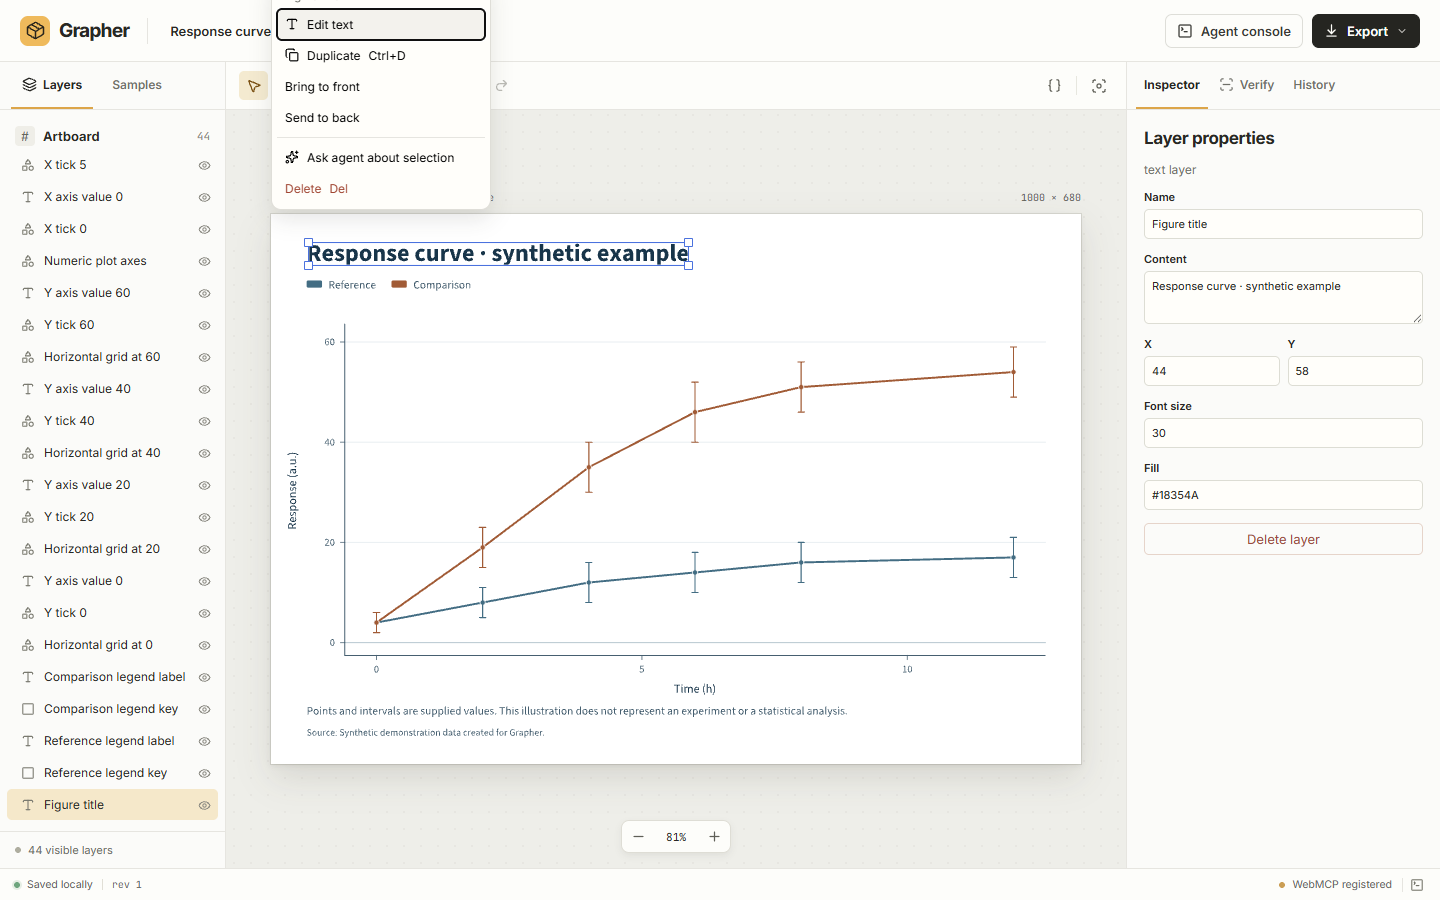
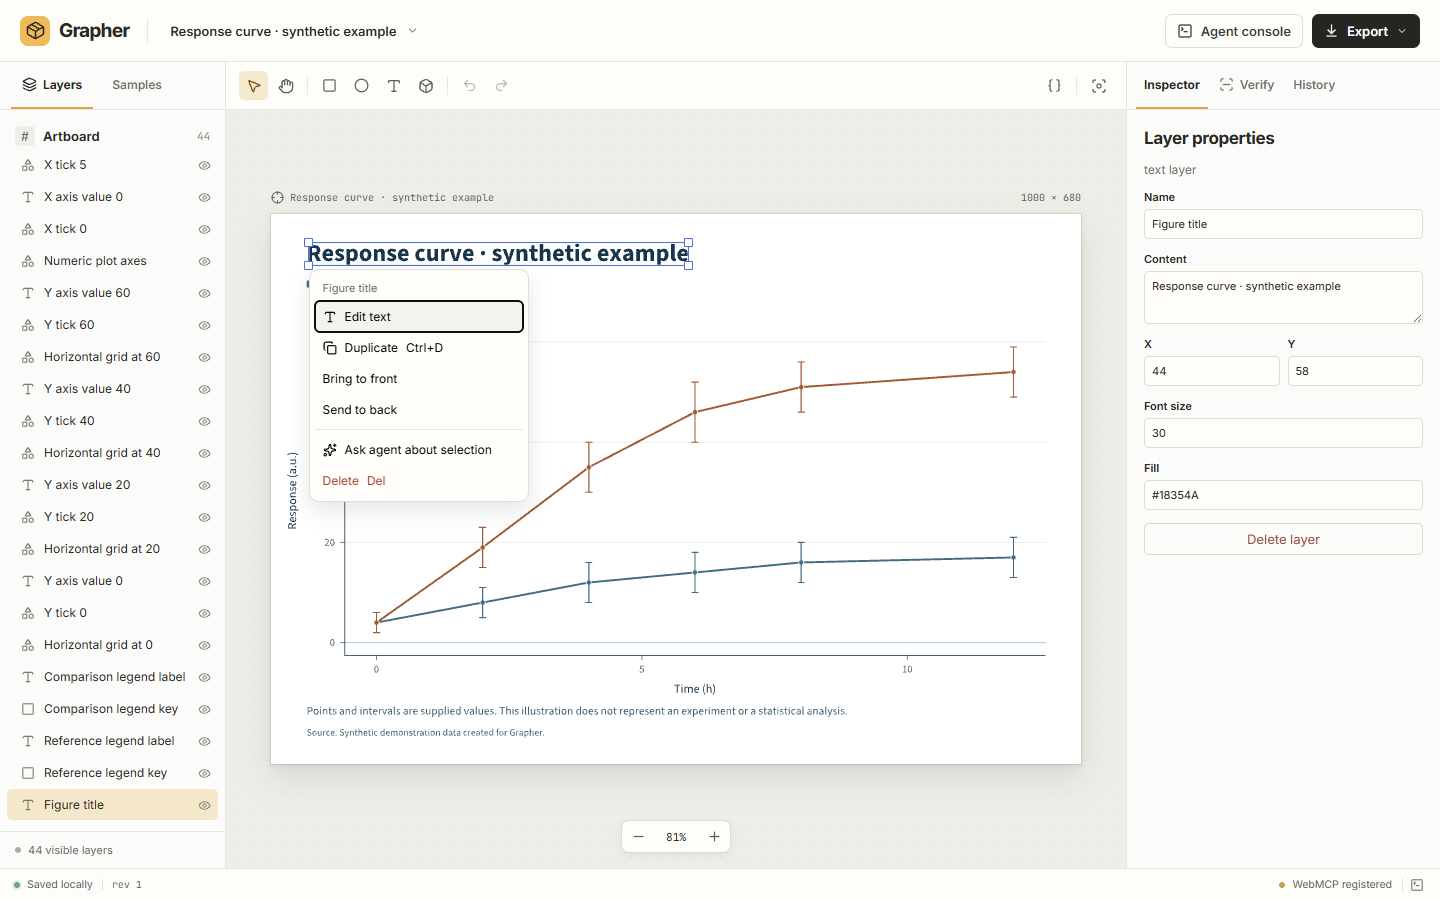
Keep selection actions beside the focused element

diff --git a/src/app.tsx b/src/app.tsx
@@ -169,6 +169,7 @@ export function App() {
   const consoleInput = useRef<HTMLTextAreaElement>(null);
   const textInput = useRef<HTMLTextAreaElement>(null);
   const artboard = useRef<HTMLDivElement>(null);
+  const keyboardMenuAnchor = useRef<HTMLSpanElement>(null);
   const drag = useRef<{ x: number; y: number } | undefined>(undefined);
   const { scene, revision, report } = workspace;
   const selectedLayer = scene.layers.find((layer) => layer.id === selected);
@@ -676,7 +677,13 @@ export function App() {
                 onKeyDown={(event) => {
                   if (!isTextInput(event.target) && ((event.shiftKey && event.key === 'F10') || event.key === 'ContextMenu')) {
                     event.preventDefault(); event.stopPropagation();
-                    event.currentTarget.dispatchEvent(new MouseEvent('contextmenu', { bubbles: true, cancelable: true, button: 0 }));
+                    const board = event.currentTarget.getBoundingClientRect();
+                    const anchor = keyboardMenuAnchor.current;
+                    if (!anchor) return;
+                    // The SDK anchors keyboard context menus to the event target, overriding MenuContent.anchor.
+                    anchor.style.left = `${Math.max(12, Math.min(window.innerWidth - 12, board.left + (bounds?.x ?? 0) * scale)) - board.left}px`;
+                    anchor.style.top = `${Math.max(12, Math.min(window.innerHeight - 12, board.top + ((bounds?.y ?? 0) + (bounds?.height ?? 0)) * scale)) - board.top}px`;
+                    anchor.dispatchEvent(new MouseEvent('contextmenu', { bubbles: true, cancelable: true, button: 0 }));
                   }
                 }}
                 onContextMenuCapture={(event) => {
@@ -686,6 +693,7 @@ export function App() {
                   else if (event.clientX || event.clientY) setSelected(undefined);
                 }}>
                 <div className="artwork" dangerouslySetInnerHTML={{ __html: art }} />
+                <span ref={keyboardMenuAnchor} className="keyboard-menu-anchor" aria-hidden="true" />
                 {bounds && <div className="selection-box" style={{ left: bounds.x * scale, top: bounds.y * scale, width: bounds.width * scale, height: bounds.height * scale }}>
                   {!interaction.editing && !selectedLayer?.rotationDeg && tool === 'select' && (['nw', 'ne', 'se', 'sw'] as const).map((corner) =>
                     <button key={corner} type="button" className={`resize-handle handle-${corner}`} data-resize-handle={corner}
@@ -711,7 +719,8 @@ export function App() {
                   </span></div>
                 </div>}
               </MenuContextTrigger>
-              <MenuContent className="pop-menu canvas-context-menu" aria-label="Selection actions" sideOffset={4} finalFocus={() => artboard.current}>
+              <MenuContent className="pop-menu canvas-context-menu" aria-label="Selection actions"
+                side="bottom" align="start" sideOffset={4} collisionPadding={12} finalFocus={() => artboard.current}>
                 <div className="menu-caption">{selectedLayer?.name ?? 'Select an element'}</div>
                 <MenuItem value="text" label="Edit text" disabled={working || selectedLayer?.kind !== 'text'}><Type size={14} /> Edit text</MenuItem>
                 <MenuItem value="duplicate" label="Duplicate" shortcut="mod+d" disabled={working || !selectedLayer}><Copy size={14} /> Duplicate</MenuItem>

diff --git a/src/styles.css b/src/styles.css
@@ -168,7 +168,8 @@ strong { font-weight: 650; }
 .handle-ne { top: -5px; right: -5px; cursor: nesw-resize; }
 .handle-se { bottom: -5px; right: -5px; cursor: nwse-resize; }
 .handle-sw { bottom: -5px; left: -5px; cursor: nesw-resize; }
-.canvas-context-menu { min-width: 220px; }
+.canvas-context-menu { min-width: 220px; max-width: calc(100vw - 24px); max-height: calc(100dvh - 24px); overflow-y: auto; }
+.keyboard-menu-anchor { position: absolute; width: 0; height: 0; pointer-events: none; }
 .canvas-context-menu [role="menuitem"] { display: flex; align-items: center; gap: 8px; padding: 8px; border-radius: 5px; font-size: 12px; }
 .canvas-context-menu [role="menuitem"]:not([data-disabled]):is(:hover, [data-highlighted]) { background: #f3f2ed; }
 .canvas-context-menu [data-destructive] { color: #a04532; }
